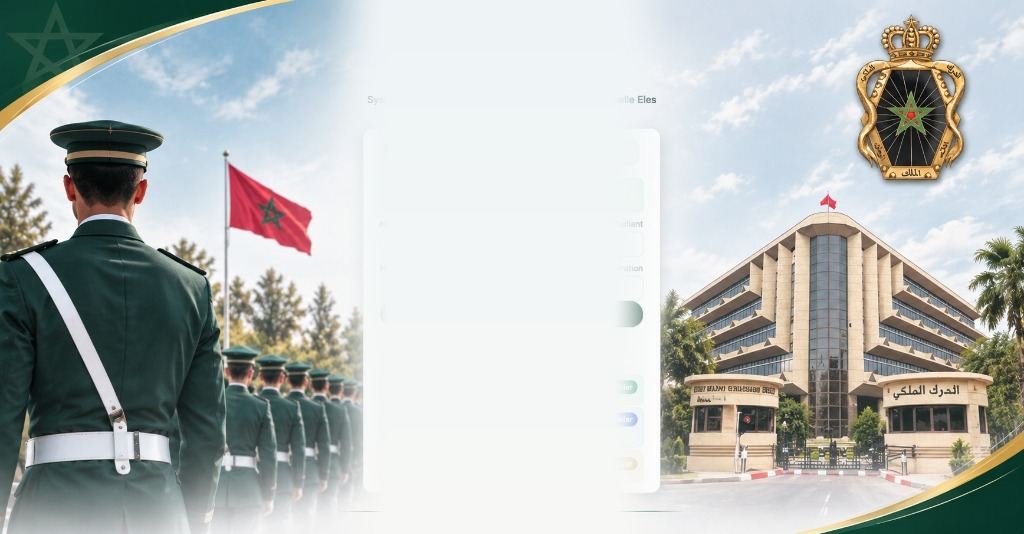
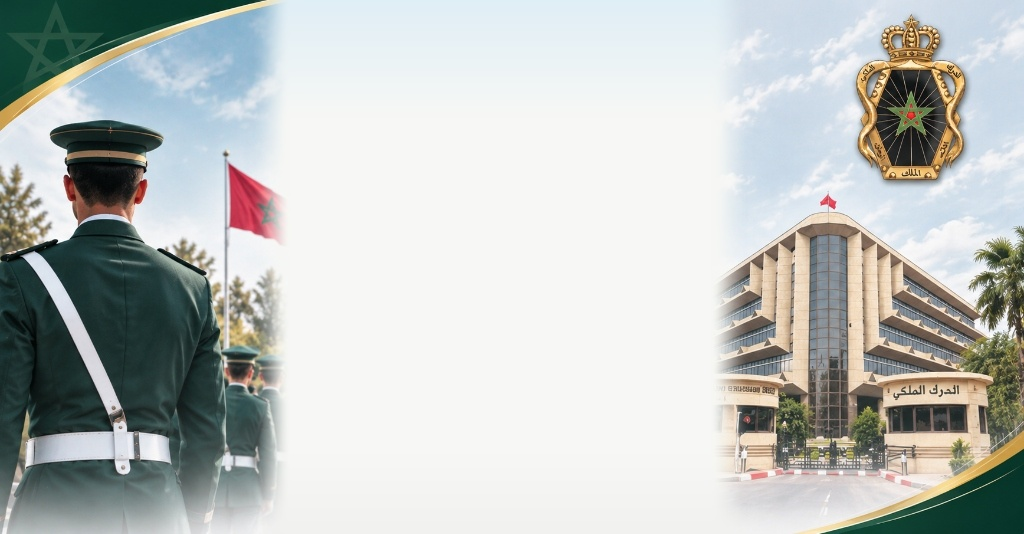
fix(auth): suppression definitive de la carte fantome en arriere-plan et affichage d'une carte unique parfaitement alignee

diff --git a/frontend/src/pages/public/LoginPage.jsx b/frontend/src/pages/public/LoginPage.jsx
@@ -162,21 +162,21 @@ export default function LoginPage() {
 
   return (
     <div 
-      className="min-h-screen bg-cover bg-center bg-no-repeat flex flex-col justify-center py-6 sm:py-10 px-4 sm:px-6 relative overflow-x-hidden selection:bg-gold/30"
+      className="min-h-screen bg-cover bg-center bg-no-repeat flex flex-col justify-center py-6 sm:py-8 px-4 sm:px-6 relative overflow-x-hidden selection:bg-gold/30"
       style={{
-        backgroundImage: `url('/images/login-bg.webp')`,
+        backgroundImage: `url('/images/login-bg.webp?v=20261115_clean')`,
         backgroundColor: '#F7F8F5'
       }}
     >
-      {/* En-tête officiel centré au-dessus de la carte */}
+      {/* En-tête officiel centré au-dessus de l'unique carte */}
       <div className="w-full max-w-md mx-auto text-center mb-2">
         {/* Blason / Écusson Vert Gendarmerie avec bordure or */}
-        <div className="mx-auto w-12 h-12 rounded-2xl bg-gendarmerie flex items-center justify-center border-2 border-gold/70 shadow-md mb-2">
-          <Shield className="w-6 h-6 text-gold" />
+        <div className="mx-auto w-11 h-11 sm:w-12 sm:h-12 rounded-2xl bg-gendarmerie flex items-center justify-center border-2 border-gold/70 shadow-md mb-2">
+          <Shield className="w-5 h-5 sm:w-6 sm:h-6 text-gold" />
         </div>
 
         {/* Badge Pilule institutionnel */}
-        <div className="inline-flex items-center px-3 py-1 rounded-full bg-white/90 border border-slate-200/80 text-[10px] font-bold tracking-widest text-slate-700 uppercase mb-1.5 shadow-2xs backdrop-blur-xs">
+        <div className="inline-flex items-center px-3 py-1 rounded-full bg-white/95 border border-slate-200/90 text-[10px] font-bold tracking-widest text-slate-700 uppercase mb-1.5 shadow-2xs backdrop-blur-xs">
           ROYAUME DU MAROC • GENDARMERIE ROYALE
         </div>
 
@@ -191,8 +191,8 @@ export default function LoginPage() {
         </p>
       </div>
 
-      {/* Carte centrale d'authentification */}
-      <div className="w-full max-w-[460px] mx-auto bg-white rounded-2xl sm:rounded-3xl shadow-xl border border-slate-200/90 p-5 sm:p-7 backdrop-blur-xs">
+      {/* L'unique carte centrale d'authentification */}
+      <div className="w-full max-w-[460px] mx-auto bg-white rounded-2xl sm:rounded-3xl shadow-xl border border-slate-200/90 p-5 sm:p-6 backdrop-blur-xs">
         
         {/* Sélecteur d'espace sous forme d'onglets (Espace Élève / Encadrement) */}
         <div className="bg-slate-100 p-1 rounded-xl flex items-center gap-1 mb-4">
@@ -243,7 +243,7 @@ export default function LoginPage() {
         {/* FORMULAIRE 1 : ESPACE ÉLÈVE GENDARME (CIN + MATRICULE) */}
         {/* ================================================================ */}
         {activeTab === 'ELEVE' && (
-          <form className="space-y-3.5" onSubmit={handleStudentSubmit}>
+          <form className="space-y-3" onSubmit={handleStudentSubmit}>
             {/* Bannière de notification verte */}
             <div className="p-2.5 rounded-xl bg-emerald-50 border border-emerald-200/80 text-emerald-900 flex items-center gap-2">
               <CheckCircle2 className="w-4 h-4 text-emerald-600 flex-shrink-0" />
@@ -254,7 +254,7 @@ export default function LoginPage() {
 
             {/* Champ 1 : Numéro CIN */}
             <div>
-              <div className="flex items-center justify-between mb-1.5">
+              <div className="flex items-center justify-between mb-1">
                 <label className="block text-[11px] font-bold text-slate-800 uppercase tracking-wider">
                   NUMÉRO CIN <span className="text-rose-600">*</span>
                 </label>
@@ -279,7 +279,7 @@ export default function LoginPage() {
 
             {/* Champ 2 : Matricule militaire */}
             <div>
-              <div className="flex items-center justify-between mb-1.5">
+              <div className="flex items-center justify-between mb-1">
                 <label className="block text-[11px] font-bold text-slate-800 uppercase tracking-wider">
                   MATRICULE MILITAIRE <span className="text-rose-600">*</span>
                 </label>
@@ -306,7 +306,7 @@ export default function LoginPage() {
             <button
               type="submit"
               disabled={loading}
-              className="w-full mt-2 bg-[#153B2B] hover:bg-[#1A4533] active:scale-[0.99] text-white font-bold py-3 px-4 rounded-xl shadow-xs transition-all flex items-center justify-center gap-2 text-xs sm:text-sm disabled:opacity-70 disabled:cursor-not-allowed"
+              className="w-full mt-2 bg-[#153B2B] hover:bg-[#1A4533] active:scale-[0.99] text-white font-bold py-2.5 sm:py-3 px-4 rounded-xl shadow-xs transition-all flex items-center justify-center gap-2 text-xs sm:text-sm disabled:opacity-70 disabled:cursor-not-allowed"
             >
               {loading ? (
                 <span>Connexion en cours...</span>
@@ -319,7 +319,7 @@ export default function LoginPage() {
             </button>
 
             {/* Notice de sécurité */}
-            <div className="text-center pt-1">
+            <div className="text-center pt-0.5">
               <span className="text-[11px] text-slate-500 flex items-center justify-center gap-1.5 font-medium">
                 <Lock className="w-3.5 h-3.5 text-gold" />
                 Connexion sécurisée et réservée aux élèves gendarmes
@@ -332,7 +332,7 @@ export default function LoginPage() {
         {/* FORMULAIRE 2 : ENCADREMENT & ÉTAT-MAJOR (OFFICIER & COMMISSIONS) */}
         {/* ====================================================================== */}
         {activeTab === 'STAFF' && (
-          <form className="space-y-3.5" onSubmit={handleStaffSubmit}>
+          <form className="space-y-3" onSubmit={handleStaffSubmit}>
             {/* Bannière de notification ambre */}
             <div className="p-2.5 rounded-xl bg-amber-50 border border-amber-200/80 text-amber-900 flex items-center gap-2">
               <Shield className="w-4 h-4 text-amber-700 flex-shrink-0" />
@@ -343,7 +343,7 @@ export default function LoginPage() {
 
             {/* Champ 1 : Identifiant */}
             <div>
-              <div className="flex items-center justify-between mb-1.5">
+              <div className="flex items-center justify-between mb-1">
                 <label className="block text-[11px] font-bold text-slate-800 uppercase tracking-wider">
                   MATRICULE OU E-MAIL <span className="text-rose-600">*</span>
                 </label>
@@ -366,7 +366,7 @@ export default function LoginPage() {
 
             {/* Champ 2 : Mot de passe */}
             <div>
-              <div className="flex items-center justify-between mb-1.5">
+              <div className="flex items-center justify-between mb-1">
                 <label className="block text-[11px] font-bold text-slate-800 uppercase tracking-wider">
                   MOT DE PASSE HABILITÉ <span className="text-rose-600">*</span>
                 </label>
@@ -391,7 +391,7 @@ export default function LoginPage() {
             <button
               type="submit"
               disabled={loading}
-              className="w-full mt-2 bg-[#153B2B] hover:bg-[#1A4533] active:scale-[0.99] text-white font-bold py-3 px-4 rounded-xl shadow-xs transition-all flex items-center justify-center gap-2 text-xs sm:text-sm disabled:opacity-70 disabled:cursor-not-allowed"
+              className="w-full mt-2 bg-[#153B2B] hover:bg-[#1A4533] active:scale-[0.99] text-white font-bold py-2.5 sm:py-3 px-4 rounded-xl shadow-xs transition-all flex items-center justify-center gap-2 text-xs sm:text-sm disabled:opacity-70 disabled:cursor-not-allowed"
             >
               {loading ? (
                 <span>Connexion en cours...</span>
@@ -404,7 +404,7 @@ export default function LoginPage() {
             </button>
 
             {/* Notice de sécurité */}
-            <div className="text-center pt-1">
+            <div className="text-center pt-0.5">
               <span className="text-[11px] text-slate-500 flex items-center justify-center gap-1.5 font-medium">
                 <Lock className="w-3.5 h-3.5 text-gold" />
                 Accès sécurisé réservé aux commissions et officiers d'état-major
@@ -415,21 +415,21 @@ export default function LoginPage() {
 
         {/* Séparateur pour les accès rapides de démonstration */}
         <div className="mt-4 pt-3.5 border-t border-slate-100">
-          <p className="text-[10px] font-bold text-slate-500 uppercase tracking-wider text-center mb-2.5">
+          <p className="text-[10px] font-bold text-slate-500 uppercase tracking-wider text-center mb-2">
             ACCÈS RAPIDE DÉMONSTRATION :
           </p>
-          <div className="space-y-2">
+          <div className="space-y-1.5">
             {/* Ligne 1 : Élève Gendarme */}
             <div
               onClick={() => fillStudentDemo('AB123456', 'EG-2025-099')}
-              className="w-full text-left p-2.5 rounded-xl border border-emerald-200/90 bg-emerald-50/60 hover:bg-emerald-50 flex items-center justify-between text-xs transition cursor-pointer"
+              className="w-full text-left p-2 rounded-xl border border-emerald-200/90 bg-emerald-50/60 hover:bg-emerald-50 flex items-center justify-between text-xs transition cursor-pointer"
             >
-              <div className="flex items-center gap-2.5 min-w-0">
+              <div className="flex items-center gap-2 min-w-0">
                 <div className="w-7 h-7 rounded-full bg-emerald-100 flex items-center justify-center flex-shrink-0 text-emerald-800">
                   <User className="w-4 h-4" />
                 </div>
                 <div className="min-w-0">
-                  <div className="font-bold text-slate-900 truncate text-xs">
+                  <div className="font-bold text-slate-900 text-[11px] sm:text-xs">
                     1. Élève Gendarme (Julien Moreau)
                   </div>
                   <div className="text-[10px] text-slate-600 truncate">
@@ -443,7 +443,7 @@ export default function LoginPage() {
                   e.stopPropagation();
                   directStudentLogin('AB123456', 'EG-2025-099');
                 }}
-                className="ml-2 bg-[#0F766E] hover:bg-[#0D655E] text-white text-[11px] font-bold px-3 py-1 rounded-full shadow-2xs transition flex-shrink-0"
+                className="ml-2 bg-[#0F766E] hover:bg-[#0D655E] text-white text-[10px] sm:text-[11px] font-bold px-2.5 sm:px-3 py-1 rounded-full shadow-2xs transition flex-shrink-0"
               >
                 Accéder
               </button>
@@ -452,14 +452,14 @@ export default function LoginPage() {
             {/* Ligne 2 : Membre Commission Spécialisée */}
             <div
               onClick={() => fillStaffDemo('commission.tech@orient-gr.gendarmerie.fr', 'Gendarme2026!')}
-              className="w-full text-left p-2.5 rounded-xl border border-blue-200/90 bg-blue-50/60 hover:bg-blue-50 flex items-center justify-between text-xs transition cursor-pointer"
+              className="w-full text-left p-2 rounded-xl border border-blue-200/90 bg-blue-50/60 hover:bg-blue-50 flex items-center justify-between text-xs transition cursor-pointer"
             >
-              <div className="flex items-center gap-2.5 min-w-0">
+              <div className="flex items-center gap-2 min-w-0">
                 <div className="w-7 h-7 rounded-full bg-blue-100 flex items-center justify-center flex-shrink-0 text-blue-800">
                   <User className="w-4 h-4" />
                 </div>
                 <div className="min-w-0">
-                  <div className="font-bold text-slate-900 truncate text-xs">
+                  <div className="font-bold text-slate-900 text-[11px] sm:text-xs">
                     2. Membre Commission Spécialisée (Capitaine Amimi)
                   </div>
                   <div className="text-[10px] text-slate-600 truncate">
@@ -473,7 +473,7 @@ export default function LoginPage() {
                   e.stopPropagation();
                   directStaffLogin('commission.tech@orient-gr.gendarmerie.fr', 'Gendarme2026!');
                 }}
-                className="ml-2 bg-[#2563EB] hover:bg-[#1D4ED8] text-white text-[11px] font-bold px-3 py-1 rounded-full shadow-2xs transition flex-shrink-0"
+                className="ml-2 bg-[#2563EB] hover:bg-[#1D4ED8] text-white text-[10px] sm:text-[11px] font-bold px-2.5 sm:px-3 py-1 rounded-full shadow-2xs transition flex-shrink-0"
               >
                 Accéder
               </button>
@@ -482,14 +482,14 @@ export default function LoginPage() {
             {/* Ligne 3 : Officier État-Major */}
             <div
               onClick={() => fillStaffDemo('commandement@orient-gr.gendarmerie.fr', 'Gendarme2026!')}
-              className="w-full text-left p-2.5 rounded-xl border border-amber-200/90 bg-amber-50/60 hover:bg-amber-50 flex items-center justify-between text-xs transition cursor-pointer"
+              className="w-full text-left p-2 rounded-xl border border-amber-200/90 bg-amber-50/60 hover:bg-amber-50 flex items-center justify-between text-xs transition cursor-pointer"
             >
-              <div className="flex items-center gap-2.5 min-w-0">
+              <div className="flex items-center gap-2 min-w-0">
                 <div className="w-7 h-7 rounded-full bg-amber-100 flex items-center justify-center flex-shrink-0 text-amber-800">
                   <User className="w-4 h-4" />
                 </div>
                 <div className="min-w-0">
-                  <div className="font-bold text-slate-900 truncate text-xs">
+                  <div className="font-bold text-slate-900 text-[11px] sm:text-xs">
                     3. Officier État-Major (ADMIN)
                   </div>
                   <div className="text-[10px] text-slate-600 truncate">
@@ -503,7 +503,7 @@ export default function LoginPage() {
                   e.stopPropagation();
                   directStaffLogin('commandement@orient-gr.gendarmerie.fr', 'Gendarme2026!');
                 }}
-                className="ml-2 bg-[#C9A052] hover:bg-[#B38E46] text-white text-[11px] font-bold px-3 py-1 rounded-full shadow-2xs transition flex-shrink-0"
+                className="ml-2 bg-[#C9A052] hover:bg-[#B38E46] text-white text-[10px] sm:text-[11px] font-bold px-2.5 sm:px-3 py-1 rounded-full shadow-2xs transition flex-shrink-0"
               >
                 Accéder
               </button>
@@ -513,7 +513,7 @@ export default function LoginPage() {
       </div>
 
       {/* Mention de bas de page */}
-      <div className="mt-4 text-center">
+      <div className="mt-3.5 text-center">
         <p className="text-[11px] font-semibold text-slate-700">
           Système fiable au service de la Gendarmerie Royale
         </p>
